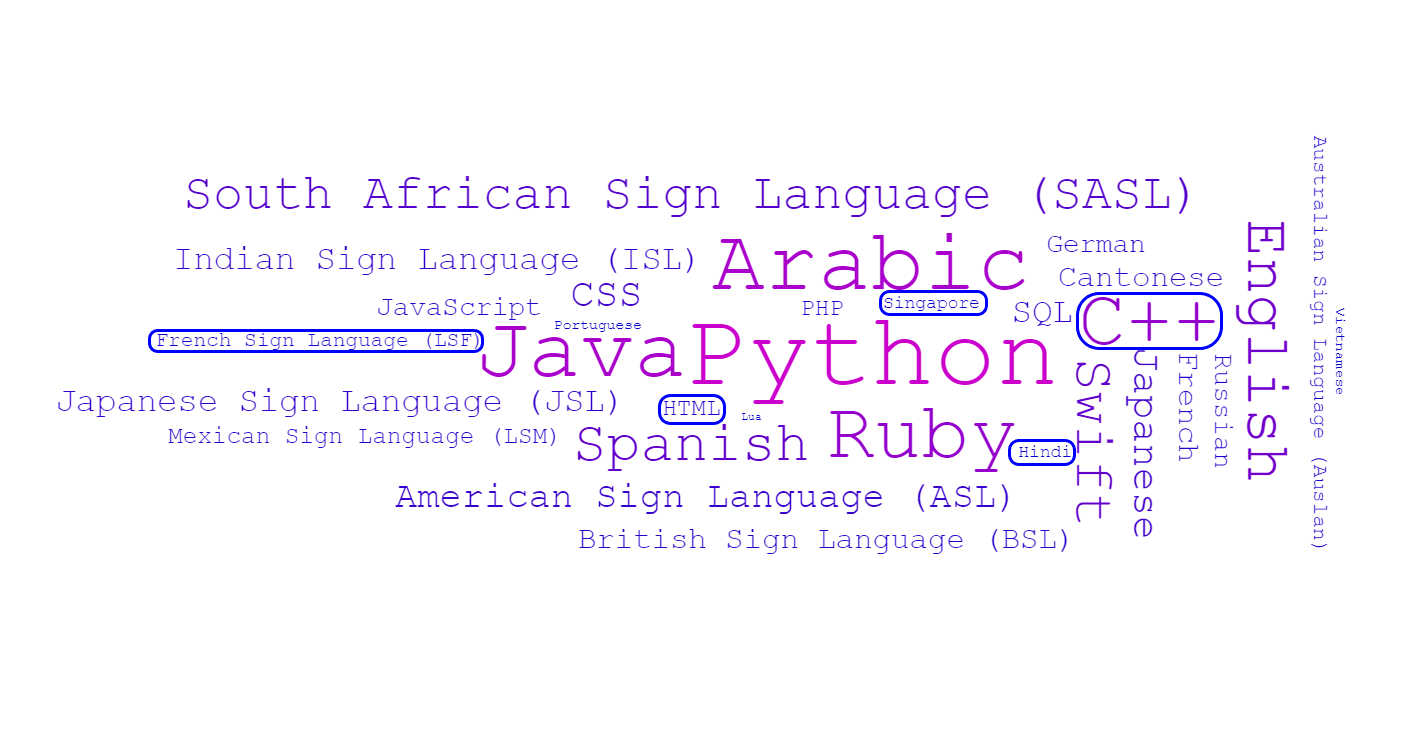
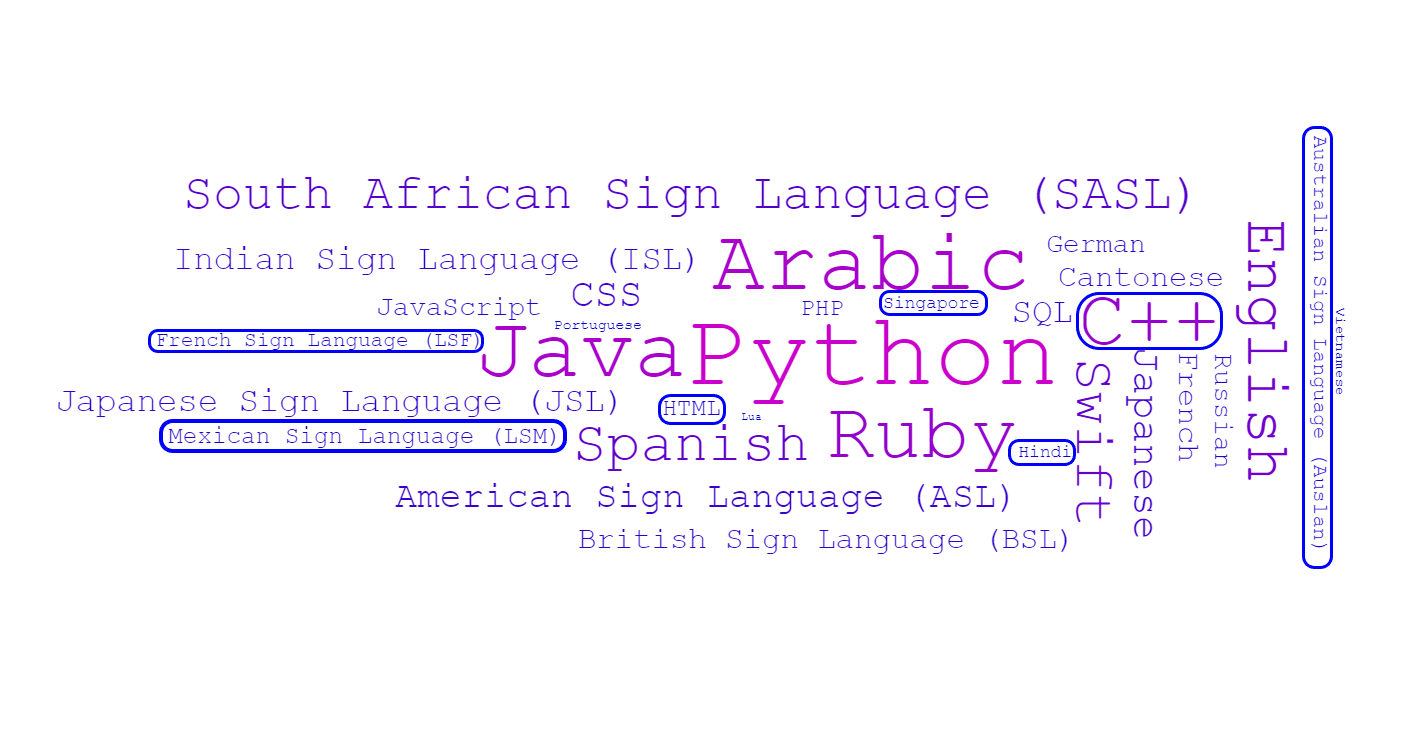
Add highlights

Changed region(s): [[0.0934, 0.5718, 0.4048, 0.632], [0.903, 0.7524, 0.9342, 0.7825]]

diff --git a/resources/objects/pages/study23/data/C3/radarchart_musicGenre.ts b/resources/objects/pages/study23/data/C3/radarchart_musicGenre.ts
@@ -4,12 +4,12 @@ const Radarchart_musicGenre: DataModule = {
     name: "radarchart_musicGenre",
     image: "../../img/C3/3. Radar chart_musicGenre.png",
     data: [
-        { x: .061, y: .046, width: 1.5, height: 3, data: { id: "5", group_id: "Even_Prime_Numbers" } },
-        { x: .236, y: .424, width: 3.4, height: 2.4, data: { id: "2011", group_id: "Even_Prime_Numbers" } },
+        { x: .061, y: .046, width: 1.5, height: 3, data: { id: "5", group_id: "Odd_Prime_Numbers" } },
+        { x: .236, y: .424, width: 3.4, height: 2.4, data: { id: "2011", group_id: "Odd_Prime_Numbers" } },
         { x: .33, y: .856, width: 3.4, height: 2.2, data: { id: "2007", group_id: "Composite_Numbers" } },
-        { x: .635, y: .855, width: 3.4, height: 2.5, data: { id: "2003", group_id: "Even_Prime_Numbers" } },
-        { x: .731, y: .424, width: 3.1, height: 2.4, data: { id: "1999", group_id: "Even_Prime_Numbers" } },
-        { x: .636, y: .231, width: 3.2, height: 2.5, data: { id: "1997", group_id: "Even_Prime_Numbers" } }
+        { x: .635, y: .855, width: 3.4, height: 2.5, data: { id: "2003", group_id: "Odd_Prime_Numbers" } },
+        { x: .731, y: .424, width: 3.1, height: 2.4, data: { id: "1999", group_id: "Odd_Prime_Numbers" } },
+        { x: .636, y: .231, width: 3.2, height: 2.5, data: { id: "1997", group_id: "Odd_Prime_Numbers" } }
     ]
 }
 if(!window.dataModules)

diff --git a/resources/objects/pages/study23/data/C3/linechart_mortgage.ts b/resources/objects/pages/study23/data/C3/linechart_mortgage.ts
@@ -4,10 +4,12 @@ const Linechart_mortgage: DataModule = {
     name: "linechart_mortgage",
     image: "../../img/C3/1. Line chart_mortgage.png",
     data: [
-        { x: .338, y: .068, width: 5.2, height: 4.4, data: { id: "may", group_id: "Even_Prime_Numbers" } },
-        { x: .777, y: .025, width: 7.3, height: 4.2, data: { id: "march", group_id: "Even_Prime_Numbers" } },
-        { x: .802, y: .642, width: 2.5, height: 3.1, data: { id: "19", group_id: "Even_Prime_Numbers" } },
-        { x: .096, y: .922, width: 2.5, height: 3, data: { id: "23", group_id: "Even_Prime_Numbers" } }
+        { x: .338, y: .068, width: 5.2, height: 4.4, data: { id: "may", group_id: "Odd_Prime_Numbers" } },
+        { x: .777, y: .025, width: 7.3, height: 4.2, data: { id: "march", group_id: "Odd_Prime_Numbers" } },
+        { x: .062, y: .487, width: 2.5, height: 4.2, data: { id: "2", group_id: "Even_Prime_Numbers" } },
+        { x: .181, y: .637, width: 2.5, height: 3.5, data: { id: "02", group_id: "Even_Prime_Numbers" } },
+        { x: .802, y: .642, width: 2.5, height: 3.1, data: { id: "19", group_id: "Odd_Prime_Numbers" } },
+        { x: .096, y: .922, width: 2.5, height: 3, data: { id: "23", group_id: "Odd_Prime_Numbers" } }
     ]
 }
 if(!window.dataModules)

diff --git a/resources/objects/pages/study23/data/B3/boxwhisker_foodItems.ts b/resources/objects/pages/study23/data/B3/boxwhisker_foodItems.ts
@@ -4,11 +4,15 @@ const BoxwhiskerFoodItems: DataModule = {
     name: "boxwhisker_foodItems",
     image: "../../img/B3/4. Box&Whisker_foodItems.png",
     data: [        
-        { x: .315, y: .024, width: 3.7, height: 14, data: { id: "box", group_id: "Brown/Bronze" } },
-        { x: .938, y: .057, width: 2.7, height: 5.8, data: { id: "dots", group_id: "Yellow" } },
+        { x: .317, y: .024, width: 3.7, height: 14, data: { id: "Bbox", group_id: "Brown/Bronze" } },
+        { x: .937, y: .057, width: 2.7, height: 5.8, data: { id: "Ydots", group_id: "Yellow/Tan" } },
+        
+        { x: .168, y: .560, width: 3, height: 3.1, data: { id: "Rdots", group_id: "Pink/Red" } },
+        { x: .693, y: .681, width: 2.5, height: 4.1, data: { id: "Rbox", group_id: "Pink/Red" } },
+        
         { x: .084, y: .857, width: 2.8, height: 4.9, data: { id: "coffee", group_id: "Brown/Bronze" } },
         { x: .502, y: .812, width: 3.1, height: 3.6, data: { id: "beef", group_id: "Pink/Red" } },
-        { x: .694, y: .812, width: 2.8, height: 4.8, data: { id: "cheese", group_id: "Yellow" } }
+        { x: .694, y: .812, width: 2.8, height: 4.8, data: { id: "cheese", group_id: "Yellow/Tan" } }
     ]
 }
 if(!window.dataModules)

diff --git a/resources/objects/pages/study23/data/B3/wiki_Peafowl.ts b/resources/objects/pages/study23/data/B3/wiki_Peafowl.ts
@@ -4,11 +4,11 @@ const Wiki_Peafowl: DataModule = {
     name: "wiki_Peafowl",
     image: "../../img/B3/1. Wiki_Peafowl.png",
     data: [
-        { x: .906, y: .236, width: 1.9, height: 2.8, data: { id: "p", group_id: "Pink/Red" } },
-        { x: .636, y: .722, width: 3.9, height: 2.9, data: { id: "brown", group_id: "Brown/Bronze" } },
-        { x: .493, y: .782, width: 4, height: 2.5, data: { id: "bronze", group_id: "Brown/Bronze" } },
-        { x: .640, y: .948, width: 3.8, height: 2.2, data: { id: "yellow", group_id: "Yellow" } },
-        { x: .371, y: .97, width: 4.6, height: 2.4, data: { id: "light tan", group_id: "Tan" } }
+        { x: .909, y: .236, width: 1.5 , height: 2.7, data: { id: "p", group_id: "Pink/Red" } },
+        { x: .636, y: .727, width: 3.9, height: 2.6, data: { id: "brown", group_id: "Brown/Bronze" } },
+        { x: .493, y: .785, width: 4, height: 2.2, data: { id: "bronze", group_id: "Brown/Bronze" } },
+        { x: .640, y: .948, width: 3.8, height: 2.2, data: { id: "yellow", group_id: "Yellow/Tan" } },
+        { x: .371, y: .972, width: 4.6, height: 2.2, data: { id: "light tan", group_id: "Yellow/Tan" } }
     ]
 }
 if(!window.dataModules)

diff --git a/resources/objects/pages/study23/data/C1/wordcloud_languages.ts b/resources/objects/pages/study23/data/C1/wordcloud_languages.ts
@@ -6,9 +6,11 @@ const Wordcloud_languages: DataModule = {
     data: [
         { x: .105, y: .447, width: 23.7, height: 3.6, data: { id: "lsf", group_id: "Sign_Language" } },
         { x: .466, y: .54, width: 4.7, height: 3.9, data: { id: "html", group_id: "Computer_Language" } },
+        { x: .111, y: .57, width: 29, height: 5, data: { id: "lsm", group_id: "Sign_Language" } },
         { x: .622, y: .397, width: 7.8, height: 3.4, data: { id: "singapore", group_id: "Country" } },
         { x: .714, y: .599, width: 4.7, height: 3.5, data: { id: "hindi", group_id: "Spoken_Language" } },
-        { x: .761, y: .399, width: 10.4, height: 7.9, data: { id: "c++", group_id: "Computer_Language" } }
+        { x: .761, y: .399, width: 10.4, height: 7.9, data: { id: "c++", group_id: "Computer_Language" } },
+        { x: .92, y: .17, width: 2.3, height: 60.5, data: { id: "auslan", group_id: "Sign_Language" } },
     ]
 }
 if(!window.dataModules)

diff --git a/resources/objects/pages/study23/data/C1/radarchart_signLang.ts b/resources/objects/pages/study23/data/C1/radarchart_signLang.ts
@@ -6,7 +6,8 @@ const Radarchart_signLang: DataModule = {
     data: [
         { x: .248, y: .132, width: 3.8, height: 3.2, data: { id: "dutch", group_id: "Spoken_Language" } },
         { x: .121, y: .656, width: 4, height: 2.5, data: { id: "italian", group_id: "Spoken_Language" } },
-        { x: .28, y: .908, width: 10.7, height: 3.4, data: { id: "btsl", group_id: "Sign_Language" } },
+        { x: .28, y: .908, width: 10.7, height: 3.4, data: { id: "btsl", group_id: "Sign_Language" } },        
+        { x: .356, y: .945, width: 10.8, height: 2.6, data: { id: "gsl", group_id: "Sign_Language" } },
         { x: .534, y: .943, width: 10.8, height: 3.3, data: { id: "fsl", group_id: "Sign_Language" } },
         { x: .71, y: .212, width: 11.7, height: 2.6, data: { id: "bzsl", group_id: "Sign_Language" } }
     ]

diff --git a/resources/objects/pages/study23/data/B3/treemap_Flavors.ts b/resources/objects/pages/study23/data/B3/treemap_Flavors.ts
@@ -4,9 +4,10 @@ const Treemap_Flavors: DataModule = {
     name: "treemap_Flavors",
     image: "../../img/B3/2. Treemap_Flavors.png",
     data: [
-        { x: .007, y: .086, width: 33, height: 89.8, data: { id: "vanilla", group_id: "Tan" } },
+        { x: .007, y: .086, width: 33, height: 89.8, data: { id: "vanilla", group_id: "Yellow/Tan" } },
         { x: .340, y: .086, width: 26, height: 54, data: { id: "chocolate", group_id: "Brown/Bronze" } },
-        { x: .601, y: .514, width: 14.8, height: 47, data: { id: "strawberry", group_id: "Pink/Red" } }
+        { x: .601, y: .514, width: 14.8, height: 47, data: { id: "strawberry", group_id: "Pink/Red" } },        
+        { x: .815, y: .086, width: 17.5, height: 42.5, data: { id: "bean", group_id: "Pink/Red" } }
     ]
 }
 if(!window.dataModules)

diff --git a/resources/objects/pages/study23/data/A3/piechart_TopGenre.ts b/resources/objects/pages/study23/data/A3/piechart_TopGenre.ts
@@ -6,6 +6,8 @@ const PiechartTopGenre: DataModule = {
     data: [
         { x: .247, y: .115, width: 11.7, height: 3, data: { id: "classic rock", group_id: "Rock" } },
         { x: .031, y: .489, width: 9.7, height: 3.1, data: { id: "irish rock", group_id: "Rock" } },
+        { x: .002, y: .659, width: 15, height: 3.1, data: { id: "permanent wave", group_id: "Pop" } },
+        { x: .129, y: .819, width: 14, height: 3.4, data: { id: "british invasion", group_id: "Rock" } },
         { x: .796, y: .767, width: 11, height: 2.9, data: { id: "album rock", group_id: "Rock" } },
         { x: .593, y: .092, width: 9.5, height: 3.1, data: { id: "dutch pop", group_id: "Pop" } },
     ]

diff --git a/resources/objects/pages/study23/data/B1/funnelchart_carBrand.ts b/resources/objects/pages/study23/data/B1/funnelchart_carBrand.ts
@@ -6,7 +6,9 @@ const FunnelchartCarBrand: DataModule = {
     data: [
         { x: .042, y: .154, width: 3.3, height: 2.2, data: { id: "toyota", group_id: "Japanese" } },
         { x: .035, y: .337, width: 4.2, height: 2.4, data: { id: "hyundai", group_id: "South_Korean" } },
+        { x: .041, y: .457, width: 3.7, height: 2.7, data: { id: "nissan", group_id: "Japanese" } },
         { x: .056, y: .518, width: 2, height: 2.4, data: { id: "kia", group_id: "South_Korean" } },
+        { x: .037, y: .58, width: 4, height: 2.3, data: { id: "subaru", group_id: "Japanese" } },
         { x: .04, y: .946, width: 3.7, height: 2.3, data: { id: "mazda", group_id: "Japanese" } },
     ]
 }

diff --git a/resources/objects/pages/study23/data/B3/img_parkingLot.ts b/resources/objects/pages/study23/data/B3/img_parkingLot.ts
@@ -4,7 +4,7 @@ const Img_parkingLot: DataModule = {
     name: "img_parkingLot",
     image: "../../img/B3/3. Satellite img_parkingLot.jpg",
     data: [
-        { x: .038, y: 0, width: 5.8, height: 7.5, data: { id: "yellow car", group_id: "Germany" } },
+        { x: .038, y: 0, width: 5.8, height: 7.5, data: { id: "yellow car", group_id: "Yellow/Tan" } },
         { x: .329, y: .612, width: 4.6, height: 16.2, data: { id: "redCar1", group_id: "Pink/Red" } },
         { x: .668, y: .444, width: 6.3, height: 14.5, data: { id: "redCar2", group_id: "Pink/Red" } },
         { x: .892, y: .287, width: 6, height: 17, data: { id: "redCar3", group_id: "Pink/Red" } }

diff --git a/resources/objects/pages/study23/data/A1/barchart_foodItems.ts b/resources/objects/pages/study23/data/A1/barchart_foodItems.ts
@@ -6,7 +6,6 @@ const BarchartFoodItems: DataModule = {
     data: [
         { x: .436, y: .303, width: 3, height: 1.7, data: { id: "dairy", group_id: "Dairy" } },
         { x: .056, y: .453, width: 5.8, height: 2.3, data: { id: "olive_oil", group_id: "Oil" } },
-        { x: .048, y: .645, width: 6.8, height: 2.1, data: { id: "tomatoes", group_id: "Vegetables" } },
         { x: .041, y: .815, width: 4.1, height: 2, data: { id: "citrus", group_id: "Fruits" } },
         { x: .004, y: .873, width: 2.7, height: 1.8, data: { id: "nuts", group_id: "Nuts_and_Seeds" } },
     ]

diff --git a/resources/objects/pages/study23/data/A1/tree_foodRevenue.ts b/resources/objects/pages/study23/data/A1/tree_foodRevenue.ts
@@ -10,6 +10,7 @@ const TreeFoodRevenue: DataModule = {
         { x: 0.028, y: .42, width: 18.5, height: 16, data: { id: "banana", group_id: "Fruits" } },
         { x: 0.425, y: .44, width: 6, height: 14.2, data: { id: "orange", group_id: "Fruits" } },
         { x: 0.028, y: .62, width: 17, height: 36.5, data: { id: "potato", group_id: "Vegetables" } },
+        { x: 0.20, y: .834, width: 14.2, height: 15.1, data: { id: "tomato", group_id: "Fruits" } },
         { x: 0.346, y: .723, width: 7, height: 14.5, data: { id: "cabbage", group_id: "Vegetables" } },
     ]
 }
